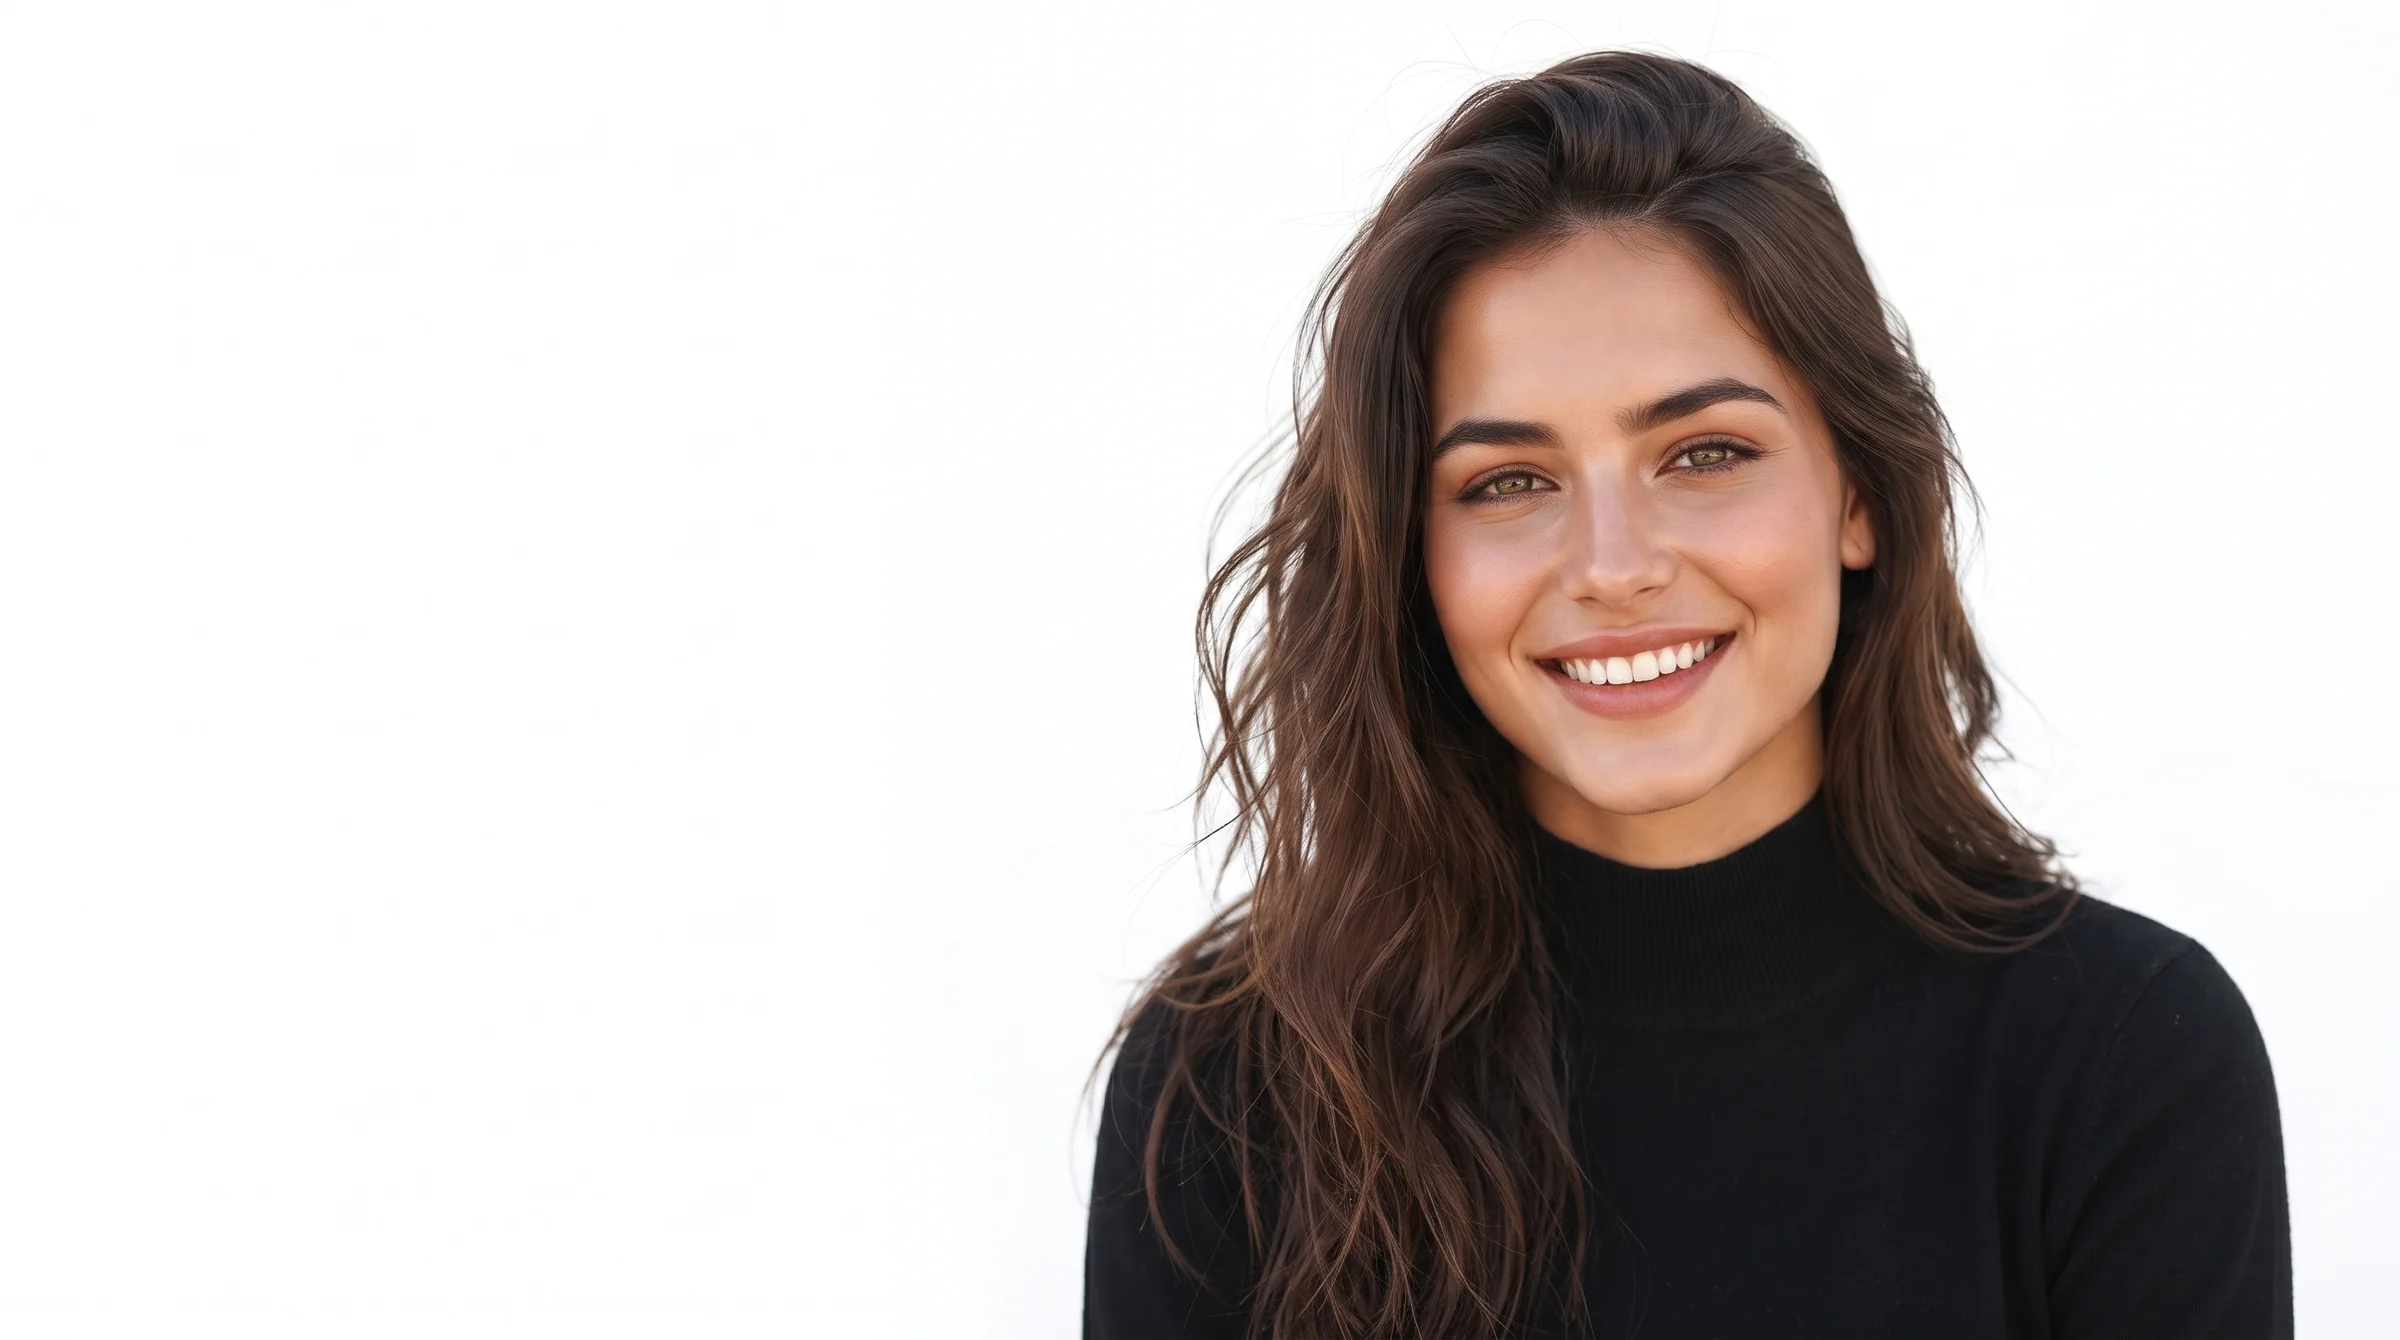
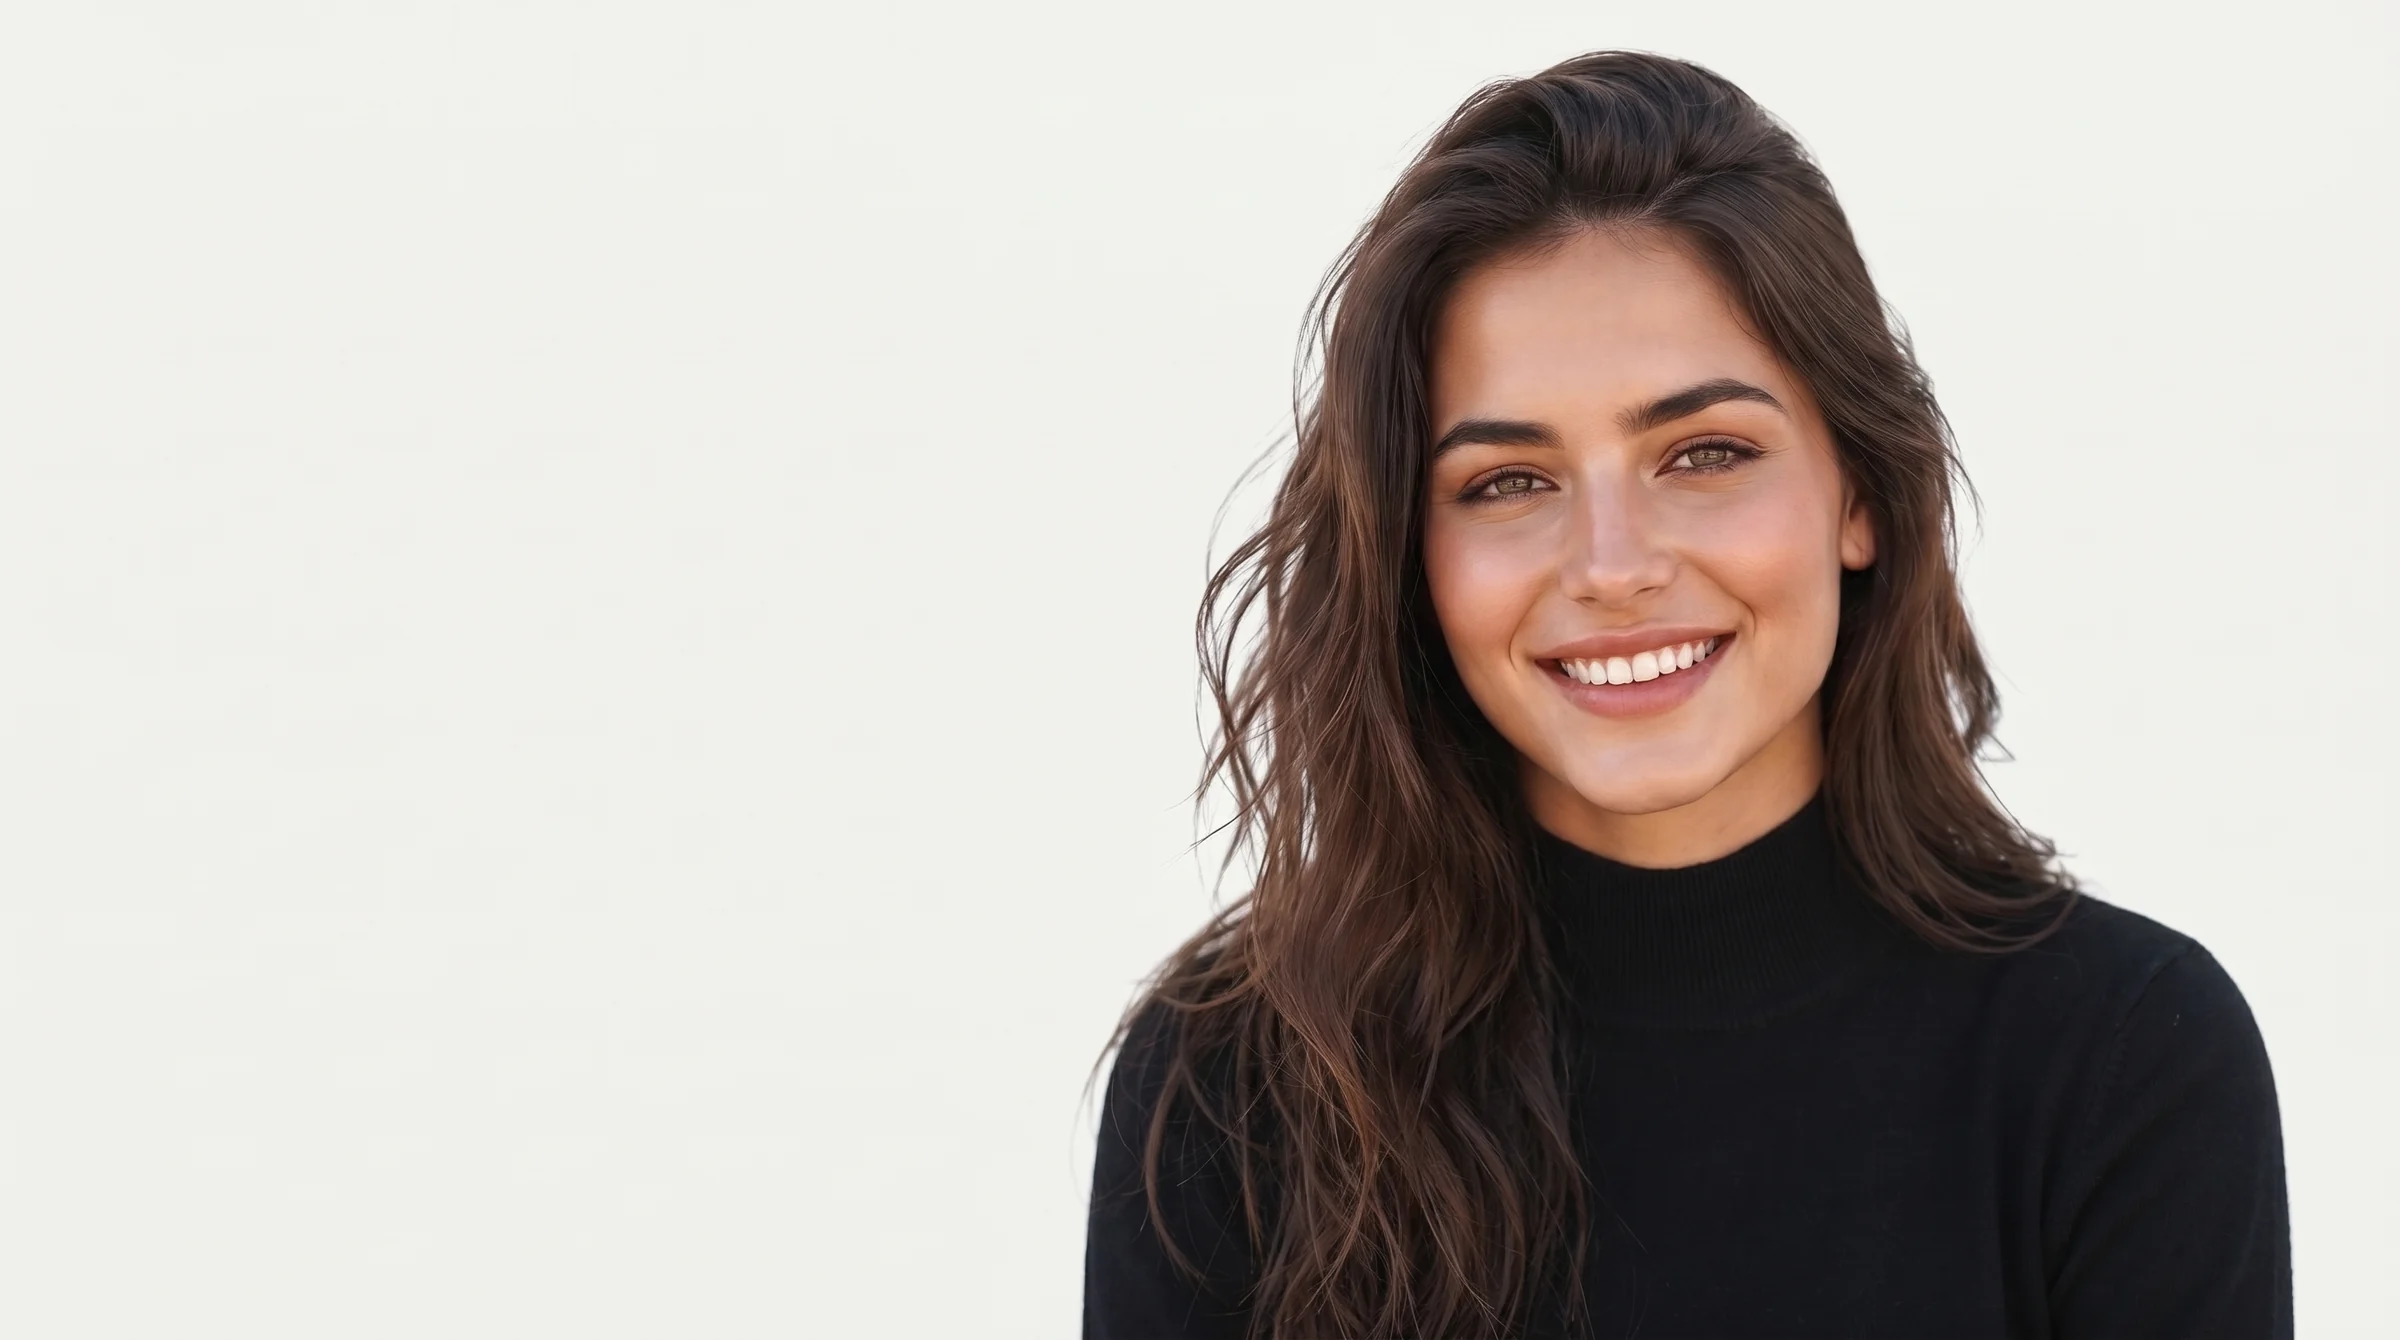
Restore the open hero layout and integrate the warm background portrait

diff --git a/src/styles.css b/src/styles.css
@@ -46,15 +46,15 @@
   .menu-button { display: none; border: 0; background: transparent; }
   .eyebrow { font-size: 11px; font-weight: 600; letter-spacing: 1.55px; line-height: 1.6; display: flex; align-items: center; gap: 9px; }
   .status-dot { width: 6px; height: 6px; background: #6b8050; border-radius: 50%; }
-  .hero { padding-block: 32px; }
-  .hero-stage { position: relative; isolation: isolate; min-height: 640px; overflow: hidden; border: 1px solid #e6e7df; border-radius: 8px; background: #fff; }
-  .hero-portrait { position: absolute; inset: 0; z-index: -1; display: block; }
-  .hero-portrait img { width: 100%; height: 100%; object-fit: cover; object-position: right top; }
-  .hero-copy { position: relative; width: 54%; padding: 44px 0 40px 56px; }
-  .hero h1 { font-size: clamp(52px, 5.7vw, 78px); font-weight: 450; line-height: 1.04; letter-spacing: -3.6px; margin-top: 22px; }
+  .hero { padding-top: 42px; padding-bottom: 48px; }
+  .hero-stage { position: relative; isolation: isolate; min-height: 610px; background: transparent; }
+  .hero-portrait { position: absolute; inset: 0; z-index: -1; display: block; mask-image: linear-gradient(to right, transparent 36%, #000 54%, #000 94%, transparent 100%); }
+  .hero-portrait img { width: 100%; height: 100%; object-fit: cover; object-position: right top; mask-image: linear-gradient(to bottom, transparent, #000 20px, #000 90%, transparent); }
+  .hero-copy { position: relative; width: 50%; padding-top: 30px; }
+  .hero h1 { font-size: clamp(52px, 5.8vw, 84px); font-weight: 450; line-height: 1.02; letter-spacing: -4px; margin-top: 30px; }
   .hero h1 span { color: #6b7461; }
-  .hero-description { font-size: 16px; color: var(--color-muted); line-height: 1.65; max-width: 350px; margin-top: 22px; }
-  .hero-actions { display: flex; flex-wrap: wrap; align-items: center; gap: 26px; margin-top: 26px; }
+  .hero-description { font-size: 17px; color: var(--color-muted); line-height: 1.65; max-width: 360px; margin-top: 28px; }
+  .hero-actions { display: flex; flex-wrap: wrap; align-items: center; gap: 26px; margin-top: 32px; }
   .button { display: inline-flex; justify-content: space-between; align-items: center; gap: 24px; padding: 17px 23px; border: 1px solid transparent; border-radius: 4px; font-size: 14px; font-weight: 550; min-height: 54px; transition: background-color .2s, transform .2s; }
   .button-dark { color: #fff; background: var(--color-ink); }
   .button-dark:hover { background: #414d3d; transform: translateY(-2px); }
@@ -63,14 +63,9 @@
   .text-link { display: inline-flex; align-items: center; justify-content: space-between; gap: 16px; min-height: 44px; font-size: 13px; font-weight: 550; text-underline-offset: 5px; }
   .text-link:hover { text-decoration: underline; }
   .text-link .icon { width: 18px; height: 18px; }
-  .hero-foot { display: flex; gap: 12px; align-items: center; color: var(--color-muted); font-size: 11px; margin-top: 30px; }
+  .hero-foot { display: flex; gap: 12px; align-items: center; color: var(--color-muted); font-size: 11px; margin-top: 48px; }
   .hero-foot strong { font-weight: 400; color: var(--color-ink); font-size: 12px; }
   .hero-foot .icon { width: 18px; }
-  .hero-clinic-link { position: absolute; bottom: 24px; right: 24px; display: flex; align-items: center; gap: 14px; padding: 14px 18px; border: 1px solid rgb(255 255 255 / .8); border-radius: 4px; background: rgb(255 255 255 / .96); color: var(--color-muted); font-size: 9px; letter-spacing: 1px; transition: background-color .2s; }
-  .hero-clinic-link:hover { background: var(--color-sage); }
-  .hero-clinic-link > .icon { width: 22px; height: 22px; color: var(--color-ink); }
-  .hero-clinic-link > .icon:last-child { width: 17px; height: 17px; margin-left: 10px; }
-  .hero-clinic-link strong { display: block; margin-top: 4px; font-size: 14px; font-weight: 450; letter-spacing: 0; color: var(--color-ink); }
   .discipline-strip { border-block: 1px solid var(--color-line); padding-block: 26px; display: flex; justify-content: space-between; gap: 20px; font-size: 11px; letter-spacing: 1.3px; }
   .discipline-strip span:nth-child(even) { color: #6b8050; }
   .section-heading { display: flex; align-items: end; justify-content: space-between; gap: 40px; margin-bottom: 46px; }
@@ -153,17 +148,15 @@
   .skip-link:focus { transform: translateY(0); }
 }
 
-@media (min-width: 1500px) { .hero { padding-block: 40px; } }
+@media (min-width: 1500px) { .hero { padding-block: 60px; } .hero-stage { min-height: 660px; } }
 @media (max-width: 1100px) {
   .wrap { width: calc(100% - 56px); }
-  .hero-stage { min-height: 600px; }
-  .hero-copy { width: 56%; padding: 36px 0 34px 36px; }
+  .hero-stage { min-height: 570px; }
+  .hero-copy { width: 52%; }
   .hero h1 { letter-spacing: -3px; }
   .hero-portrait img { object-position: 55% top; }
   .hero-description { max-width: 310px; }
   .hero-actions { gap: 16px; }
-  .hero-clinic-link { bottom: 20px; right: 20px; padding: 12px; }
-  .hero-clinic-link > .icon:first-child { display: none; }
   .desktop-nav { gap: 18px; }
   .header-call { font-size: 13px; }
   .clinic-layout, .faq-section { gap: 44px; }
@@ -184,15 +177,12 @@
   .hero-stage { min-height: 560px; }
   .hero .eyebrow { font-size: 9px; letter-spacing: .8px; }
   .hero h1 { font-size: clamp(44px, 6.4vw, 58px); }
-  .hero-copy { width: 58%; padding: 34px 0 32px 28px; }
+  .hero-copy { width: 54%; padding-top: 15px; }
   .hero-description { font-size: 14px; max-width: 265px; }
   .hero-portrait img { object-position: 54% top; }
   .hero-actions { gap: 14px; }
   .hero-actions .button { padding-inline: 16px; gap: 14px; }
   .hero-foot { margin-top: 24px; }
-  .hero-clinic-link { right: 16px; bottom: 16px; }
-  .hero-clinic-link strong { font-size: 12px; }
-  .hero-clinic-link > .icon:last-child { display: none; }
   .discipline-strip { font-size: 9px; gap: 10px; }
   .section { padding-block: 68px; }
   .services-grid { grid-template-columns: 1fr 1fr; }
@@ -221,22 +211,19 @@
   .header-call { min-width: 44px; justify-content: center; margin-left: auto; }
   .header-call span { display: none; }
   .header-call .icon { width: 21px; height: 21px; }
-  .hero { padding-block: 18px 26px; }
+  .hero { padding-top: 24px; padding-bottom: 30px; }
   .hero-stage { display: flex; flex-direction: column; min-height: 0; }
-  .hero-copy { width: 100%; padding: 26px 24px 20px; }
+  .hero-copy { width: 100%; padding: 0; }
   .hero .eyebrow { font-size: 9px; letter-spacing: 1px; }
-  .hero h1 { font-size: clamp(36px, 12.2vw, 64px); letter-spacing: -2.3px; margin-top: 20px; }
+  .hero h1 { font-size: clamp(44px, 13vw, 70px); letter-spacing: -2.8px; margin-top: 24px; }
   .hero-description { font-size: 15px; max-width: 330px; margin-top: 20px; }
   .hero-actions { gap: 10px; margin-top: 22px; }
   .hero-actions .button { padding: 15px 12px; gap: 12px; font-size: 13px; }
   .hero-actions .text-link { font-size: 12px; gap: 8px; }
   .hero-foot { margin-top: 22px; }
-  .hero-portrait { position: relative; inset: auto; order: 2; height: 360px; z-index: 0; overflow: hidden; }
+  .hero-portrait { position: relative; inset: auto; order: 2; height: 360px; margin-top: 24px; z-index: 0; overflow: hidden; mask-image: linear-gradient(to right, transparent, #000 5%, #000 95%, transparent); }
   .hero-portrait img { object-position: 78% top; }
-  .hero-portrait::after { content: ''; position: absolute; inset: 0 0 auto; height: 35px; background: linear-gradient(#fff, rgb(255 255 255 / 0)); pointer-events: none; }
-  .hero-clinic-link { z-index: 1; bottom: 16px; right: 16px; left: 16px; width: fit-content; margin-left: auto; padding: 11px 15px; }
-  .hero-clinic-link > .icon:last-child { display: block; }
-  .hero-clinic-link strong { font-size: 13px; }
+  .hero-portrait::after { content: ''; position: absolute; inset: 0 0 auto; height: 35px; background: linear-gradient(var(--color-paper), rgb(244 244 239 / 0)); pointer-events: none; }
   .discipline-strip { display: grid; grid-template-columns: 1fr auto 1fr; text-align: center; row-gap: 15px; padding-block: 20px; font-size: 9px; }
   .discipline-strip span:nth-child(4) { display: none; }
   .section { padding-block: 56px; }

diff --git a/src/main.tsx b/src/main.tsx
@@ -62,7 +62,6 @@ function Hero() {
         <div className="hero-actions"><a className="button button-dark" href="#contacts">Обговорити візит<Icon name="arrow"/></a><a className="text-link" href="#services">Обрати послугу<span aria-hidden="true">↗</span></a></div>
         <div className="hero-foot"><Icon name="pin"/><span>Івано-Франківськ<br/><strong>{clinic.address}</strong></span></div>
       </div>
-      <a className="hero-clinic-link" href="#clinic"><Icon name="tooth"/><span>ПОЗНАЙОММОСЯ БЛИЖЧЕ<strong>Про клініку DVT Denta</strong></span><Icon name="arrow"/></a>
     </div>
   </section>;
 }
